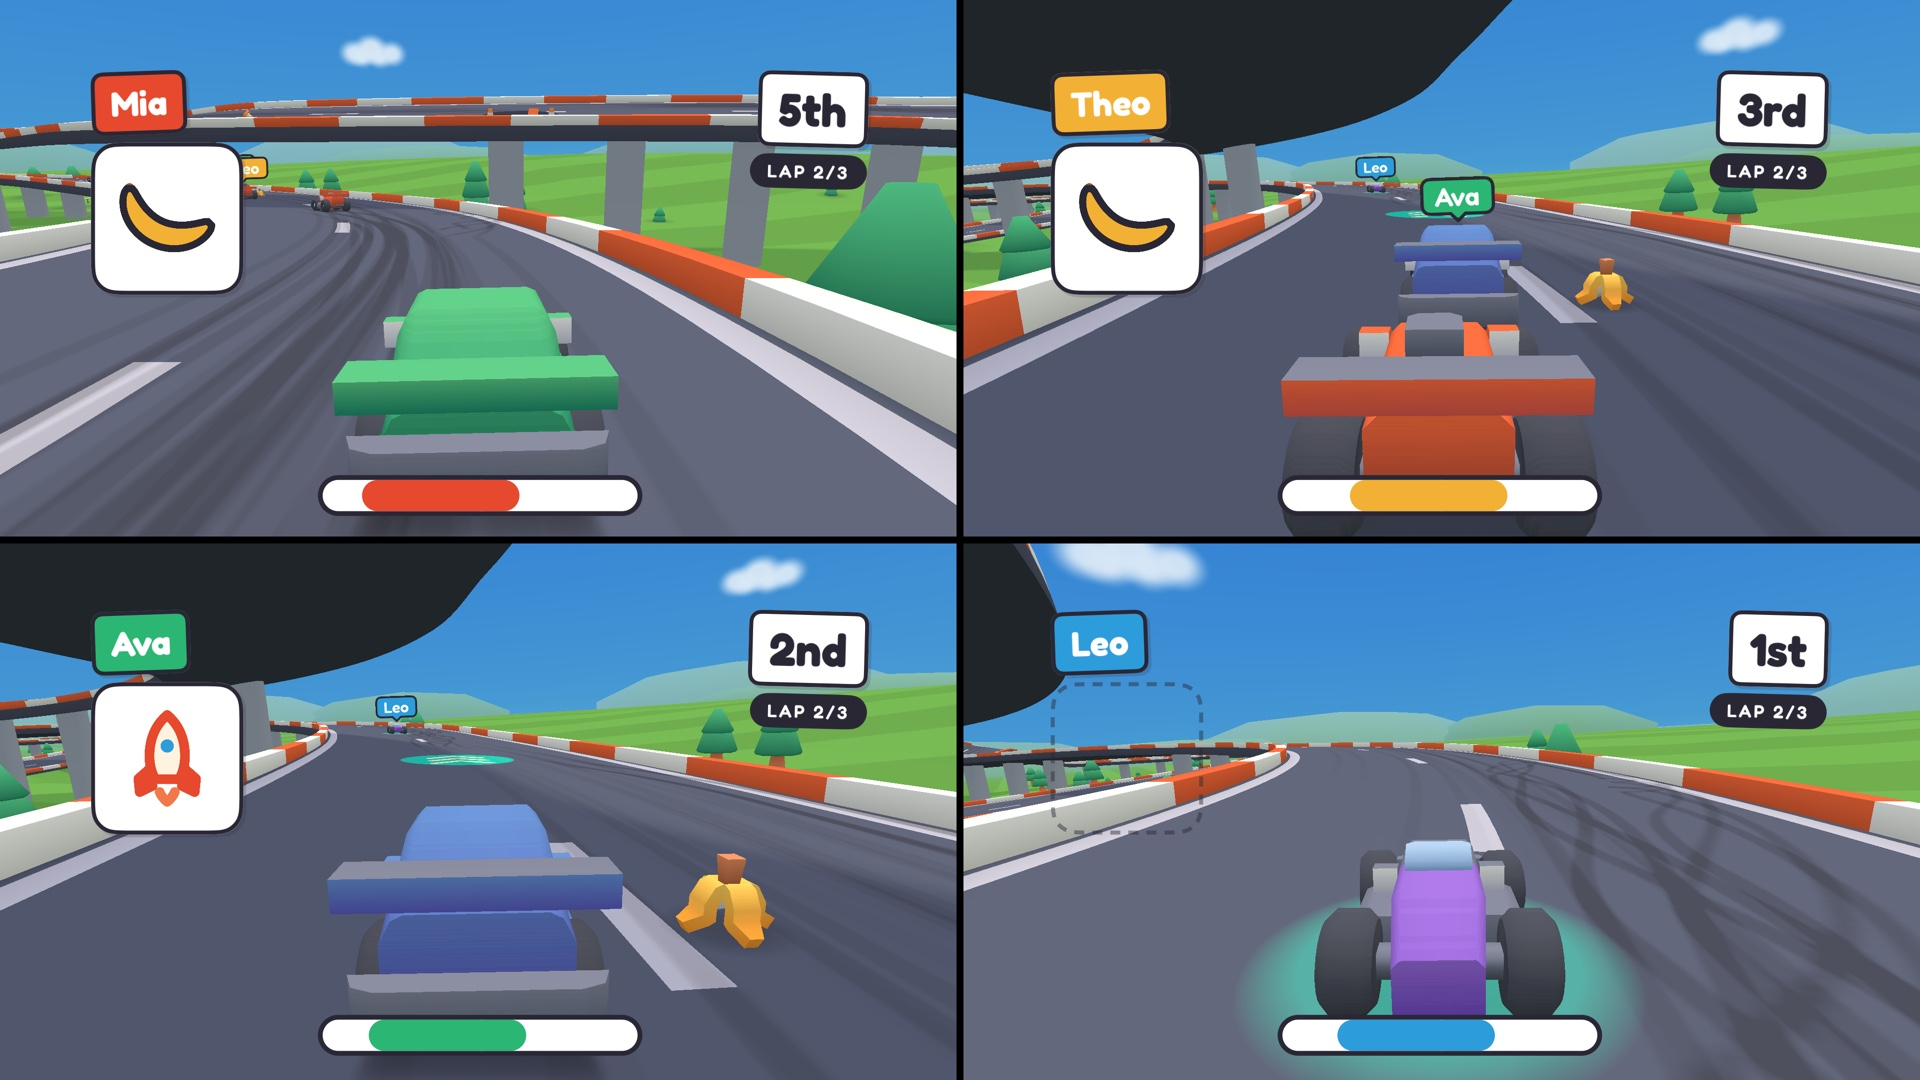
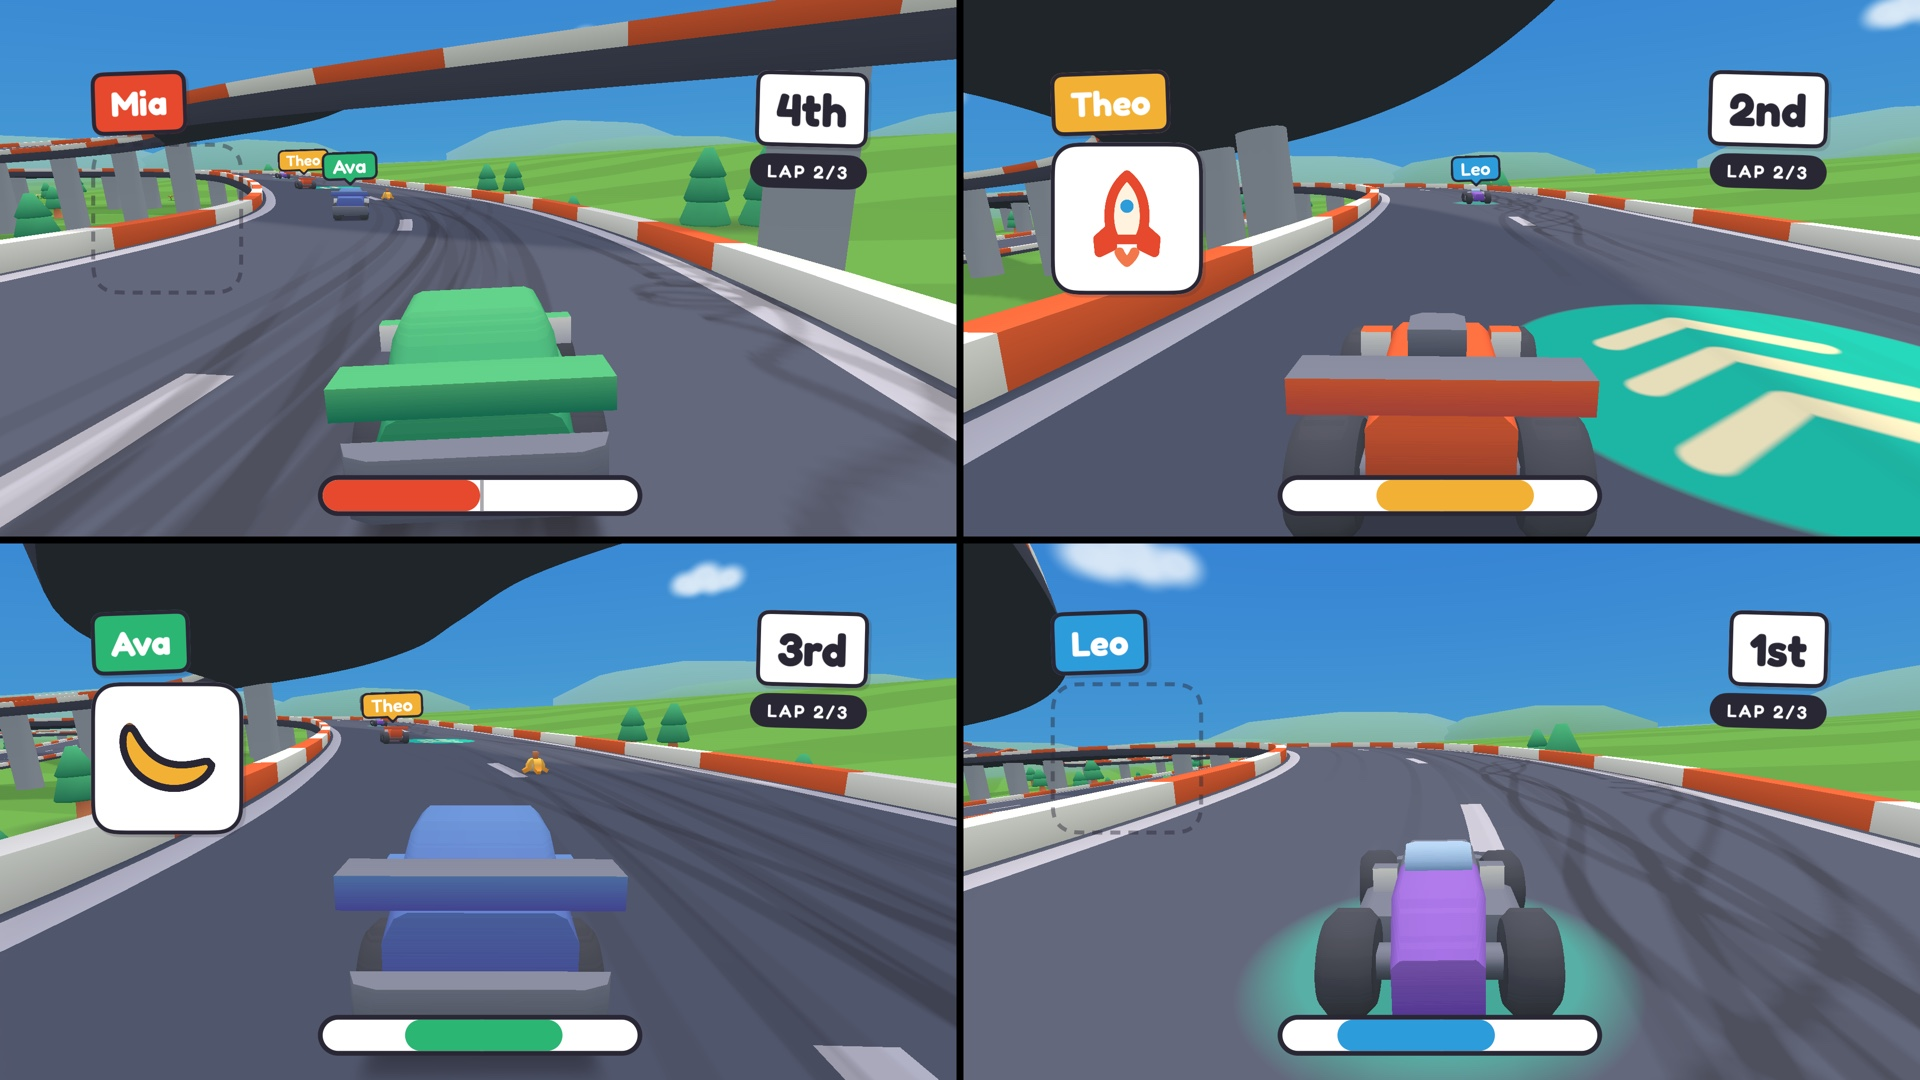
chore(shots): re-shoot the tvOS store set, silently, with a rocket in the rocket card
The monster truck's new size and collision changed every seed-1 race after a
transform, so the held moments no longer showed what their cards are named for:
the rocket card had no rocket left in it. It now holds Tangle (4P) at 35.85 s,
found by surveying the races' event logs: one rocket landing on Ava, a second in
flight in Leo's view.

The shot test launches the game with its own mute set from the argument domain,
so a capture no longer plays race audio on whatever machine or TV takes it, and
never touches the stored setting.

Claude-Session: https://claude.ai/code/session_01Si6tVzbTFrXD6BtpMRWzNc

diff --git a/shells/tvos/TinyTrackPartyUITests/ShotTests.swift b/shells/tvos/TinyTrackPartyUITests/ShotTests.swift
@@ -46,6 +46,12 @@ final class ShotTests: XCTestCase {
                  hold: String? = nil) {
         let app = XCUIApplication()
         app.launchArguments = ["-ttpScenario", id]
+        // SILENT. A capture is a run of races on whoever's machine or TV took it.
+        // The game's own mute (GameCoordinator.mutedKey) set from the argument
+        // domain: it wins over the stored value and is never written back, so a
+        // player's real mute choice on the box survives the capture. Mute draws
+        // nothing on the TV, so the pictures are unchanged.
+        app.launchArguments += ["-tinytrack_sound_muted_v1", "YES"]
         // The card's seat count and circuit, when the table pins them
         // (`params.players`, `params.track`); the harness reads both the way it
         // reads the scenario.

diff --git a/public/shared/galleryScenarios.js b/public/shared/galleryScenarios.js
@@ -154,7 +154,7 @@ export const GALLERY_SCENARIOS = [
   // of a hit is the renderer's and fades while the hold settles, so a strike is
   // shot in flight.
   { id: 'rocket', key: 'racing', title: 'Rocket strike', animated: true, store: 6,
-    params: { track: 'flurry', players: 2, seed: 1 }, hold: { simMs: 58650 } },
+    params: { track: 'tangle', players: 4, seed: 1 }, hold: { simMs: 35850 } },
   { id: 'monster', key: 'racing', title: 'Monster truck', animated: true, store: 8,
     params: { track: 'driftwood', players: 4, seed: 1 }, hold: { simMs: 43600 } },
   // The scripted-beat cards (pause, a dropped seat, a finisher) hold too, and the
